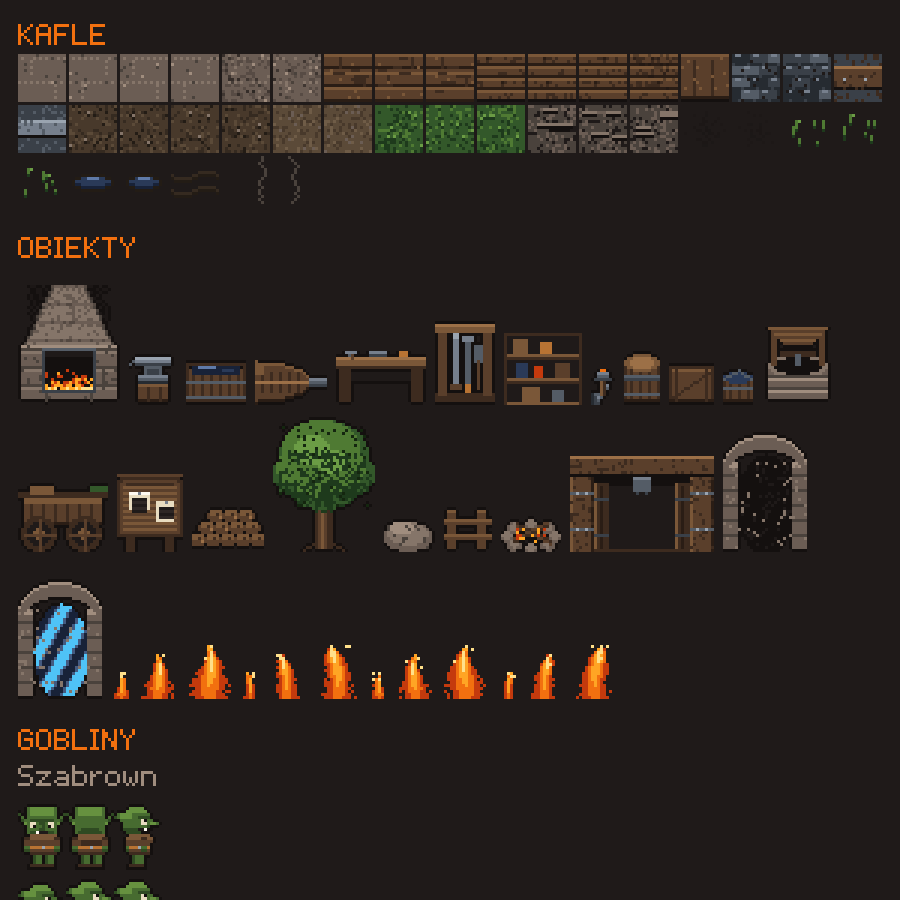
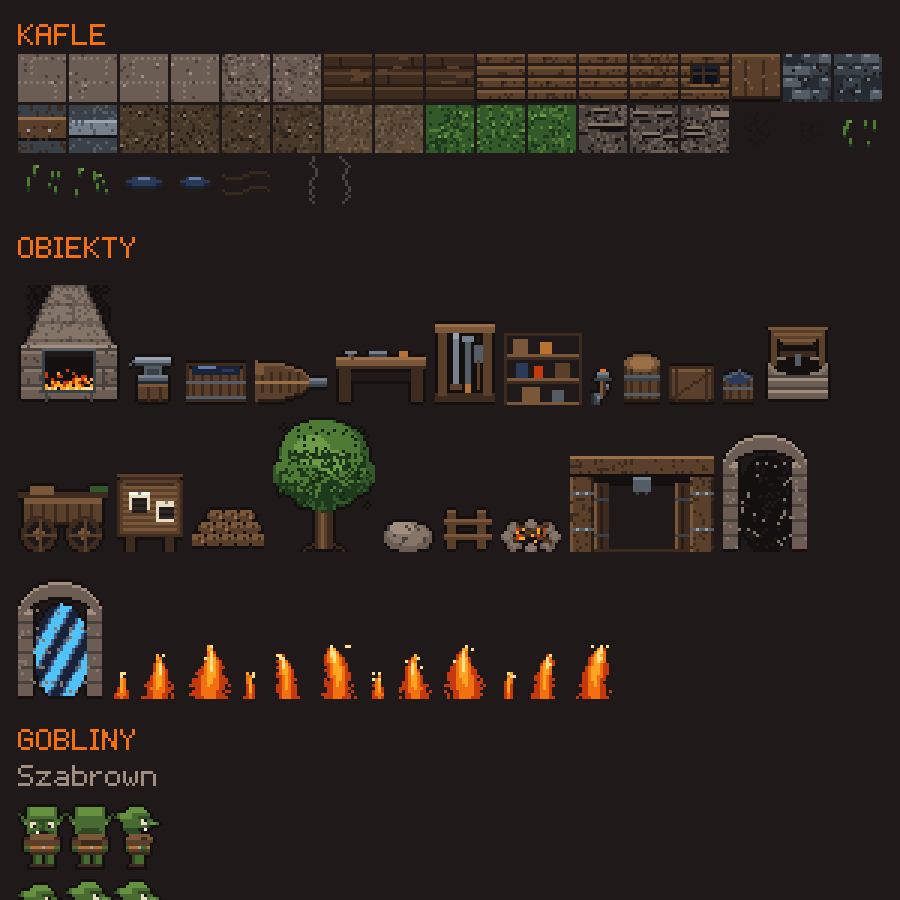
Okna z klinem widocznosci; kontrast podlogi; nieregularny przedpiecek
Trzy rzeczy zgloszone po obejrzeniu w grze:

1. Itemki zlewaly sie z podloga, bo deski mialy baze wood 2 — dokladnie ta,
   z ktorej zrobione sa beczki, skrzynie i stol. Podloga schodzi o dwa stopnie
   rampy w dol, przedmioty zostaja na srodku i kontrast robi sam material.

2. Przedpiecek byl rownym kwadratem i wygladal jak wklejony. Teraz krawedz jest
   nieregularna (czesc kafli brzegowych wypada, czesc wychodzi poza obrys),
   a sadza z paleniska wysypuje sie na deski i rozmywa linie styku.

3. Boki karczmy przeswiecaly — bylo widac trawe za sciana. Powod: pas trawy
   miedzy sciana a skala ma dwa kafle, czyli 32 px, a rozmycie krawedzi
   przygaszania bylo ustawione na 30 px. Caly pas wpadal w gradient i nigdy
   nie gasl. Rozmycie zwezone do 6 px.

Do tego OKNA. Siedem otworow w scianach, a przez kazdy widac klin liczony
od pozycji gracza przez oba konce otworu — dokladnie ta sama geometria co przy
rzucaniu cienia, tylko odwrocona. Ile widac, zalezy od tego, gdzie stoisz.

Przygaszanie liczy sie teraz na osobnym plotnie: zaciemniamy wszystko, potem
wycinamy wnetrze i kliny. Rysujac wprost na maske dawalo sie tylko dokladac
ciemnosc, nie odejmowac jej wybiorczo. Opis okna to czysta geometria (odcinek
otworu), wiec ten sam mechanizm obsluzy okna w domkach graczy.

Changed region(s): [[0.0, 0.0622, 0.9956, 0.2178], [0.1867, 0.1867, 0.2489, 0.2178]]

diff --git a/client/src/world/forge.js b/client/src/world/forge.js
@@ -23,6 +23,40 @@ export const WORLD_H = MAP_H * TILE;
 const BUILDING = { x0: 5, x1: 42, y0: 2, y1: 19 };
 // Prześwit bramy ma dokładnie dwa kafle, bo tyle samo ma otwór w jej rysunku.
 const GATE = { x0: 23, x1: 24 };
+// Kamienny przedpiecek wokół paleniska — jedyne miejsce w hali bez desek.
+const APRON = { x0: 8, x1: 15, y0: 6, y1: 11 };
+
+/**
+ * Okienka w ścianach. Każde opisane jest **odcinkiem otworu** (`a` i `b`)
+ * w pikselach świata — z niego liczy się klin widoczności: co widać przez okno,
+ * zależy od tego, gdzie stoi gracz, dokładnie jak przy rzucaniu cienia.
+ *
+ * Ten sam mechanizm obsłuży potem okna w domkach graczy, więc opis okna jest
+ * czystą geometrią, bez wiedzy o tym, że chodzi o karczmę.
+ */
+const WINDOW_TILES = [
+  { x: BUILDING.x0, y: 7, side: 'left' },
+  { x: BUILDING.x0, y: 13, side: 'left' },
+  { x: BUILDING.x1, y: 7, side: 'right' },
+  { x: BUILDING.x1, y: 13, side: 'right' },
+  { x: 20, y: BUILDING.y0 + 1, side: 'top' },
+  { x: 28, y: BUILDING.y0 + 1, side: 'top' },
+  { x: 36, y: BUILDING.y0 + 1, side: 'top' },
+];
+
+const WINDOW_KEYS = new Set(WINDOW_TILES.map((w) => `${w.x},${w.y}`));
+
+export const WINDOWS = WINDOW_TILES.map((w) => {
+  // Otwór w rysunku kafla zajmuje piksele 4-11 w poziomie i 4-9 w pionie.
+  if (w.side === 'top') {
+    // Ściana biegnie w poziomie, więc otwór jest odcinkiem poziomym na jej licu.
+    const y = w.y * TILE + TILE;
+    return { a: { x: w.x * TILE + 4, y }, b: { x: w.x * TILE + 12, y } };
+  }
+  // Ściany boczne biegną w pionie — otwór jest odcinkiem pionowym.
+  const x = w.side === 'left' ? w.x * TILE : (w.x + 1) * TILE;
+  return { a: { x, y: w.y * TILE + 4 }, b: { x, y: w.y * TILE + 12 } };
+});
 
 export const INTERIOR_PX = {
   x: (BUILDING.x0 + 1) * TILE,
@@ -33,7 +67,7 @@ export const INTERIOR_PX = {
 
 export const SPAWN = { x: 384, y: 352 };
 
-const SOLID_TILES = new Set(['wall_face', 'wall_top', 'rock']);
+const SOLID_TILES = new Set(['wall_face', 'wall_window', 'wall_top', 'rock']);
 
 /** Nazwa kafla bez numeru wariantu — po niej rozpoznajemy kolizję. */
 const baseName = (name) => name.replace(/_\d+$/, '').replace(/_soot\d?$/, '');
@@ -62,6 +96,7 @@ function pickTile(x, y, rng) {
   if (inBuildingSpan) {
     if (y === BUILDING.y0) return 'wall_top';
     if (y === BUILDING.y0 + 1) {
+      if (WINDOW_KEYS.has(`${x},${y}`)) return 'wall_window';
       // Ściana nad paleniskiem jest zakopcona.
       return x >= 8 && x <= 16 ? 'wall_face_soot' : `wall_face_${rng.int(3)}`;
     }
@@ -71,6 +106,7 @@ function pickTile(x, y, rng) {
     }
   }
   if (y > BUILDING.y0 && y < BUILDING.y1 && (x === BUILDING.x0 || x === BUILDING.x1)) {
+    if (WINDOW_KEYS.has(`${x},${y}`)) return 'wall_window';
     return `wall_face_${rng.int(3)}`;
   }
 
@@ -79,14 +115,23 @@ function pickTile(x, y, rng) {
     // Kamień tylko na przedpiecku, gdzie ma sens ogniowy — na desce pod kuźnią
     // nikt by ognia nie rozpalał. Reszta hali to deski.
     //
-    // Przedpiecek jest PROSTOKĄTNY. Wersja liczona po promieniu dawała wielką
-    // szarą plamę na trzeciej części hali, z poszarpaną schodkową krawędzią.
-    const onApron = x >= 8 && x <= 15 && y >= 6 && y <= 11;
-    if (onApron) {
-      const core = x >= 9 && x <= 14 && y >= 7 && y <= 10;
+    // Krawędź przedpiecka jest NIEREGULARNA: część kafli brzegowych wypada,
+    // część wychodzi poza obrys. Równy prostokąt czytał się jak wklejona łata.
+    const inApron = x >= APRON.x0 && x <= APRON.x1 && y >= APRON.y0 && y <= APRON.y1;
+    const onEdge = inApron
+      && (x === APRON.x0 || x === APRON.x1 || y === APRON.y0 || y === APRON.y1);
+
+    if (inApron && !(onEdge && rng.chance(0.4))) {
+      const core = x >= APRON.x0 + 1 && x <= APRON.x1 - 1
+        && y >= APRON.y0 + 1 && y <= APRON.y1 - 1;
       if (core) return rng.chance(0.6) ? 'floor_stone_soot' : 'floor_stone_soot2';
       return `floor_stone_${rng.int(4)}`;
     }
+    // Pojedyncze płyty wysunięte na deski — rozmywają linię styku.
+    const besideApron = x >= APRON.x0 - 1 && x <= APRON.x1 + 1
+      && y >= APRON.y0 - 1 && y <= APRON.y1 + 1;
+    if (besideApron && rng.chance(0.3)) return `floor_stone_${rng.int(4)}`;
+
     return `floor_wood_${(x + y) % 3}`;
   }
 
@@ -124,6 +169,13 @@ function buildDecals(tiles) {
           decals.push({ key: rng.chance(0.5) ? 'decal_soot_0' : 'decal_soot_1', x: px, y: py });
         }
         if (rng.chance(0.05)) decals.push({ key: `decal_crack_${rng.int(2)}`, x: px, y: py });
+      } else if (tile.startsWith('floor_wood')) {
+        // Sadza wysypana z paleniska na deski. To ona rozmywa styk kamiennego
+        // przedpiecka z podłogą — bez niej granica jest linią prostą.
+        const d = Math.hypot(x - 11.5, y - 8.5);
+        if (d < 10 && rng.chance(0.3 - d * 0.026)) {
+          decals.push({ key: rng.chance(0.5) ? 'decal_soot_0' : 'decal_soot_1', x: px, y: py });
+        }
       } else if (tile.startsWith('dirt')) {
         if (rng.chance(0.07)) decals.push({ key: `decal_tuft_${rng.int(3)}`, x: px, y: py });
         if (rng.chance(0.02)) decals.push({ key: `decal_puddle_${rng.int(2)}`, x: px, y: py });
@@ -369,6 +421,7 @@ export function buildWorld() {
     tiles,
     decals: buildDecals(tiles),
     roof: buildRoof(),
+    windows: WINDOWS,
     props,
     lights: buildLights(),
     flames: buildFlames(),

diff --git a/client/src/render/lighting.js b/client/src/render/lighting.js
@@ -37,6 +37,11 @@ export class Lighting {
     if (this.width === w && this.height === h) return;
     if (this.scene.textures.exists(this.key)) this.scene.textures.remove(this.key);
     this.texture = this.scene.textures.createCanvas(this.key, w, h);
+    // Płótno pomocnicze na przygaszanie — nie trafia do gry, służy tylko do
+    // złożenia maski widoczności przed nałożeniem jej na scenę.
+    this.occlusion = document.createElement('canvas');
+    this.occlusion.width = w;
+    this.occlusion.height = h;
     // Wygładzanie jest tu pożądane — chcemy miękką plamę światła, nie kwadraty.
     this.texture.setFilter(Phaser.Textures.FilterMode.LINEAR);
     this.image.setTexture(this.key);
@@ -52,37 +57,74 @@ export class Lighting {
    * Krawędź jest rozmyta pasem gradientu. Ostry prostokąt czytał się jak błąd
    * renderowania — to była znana wada tej warstwy jeszcze przy samym ambiencie.
    */
-  occlude(ctx, w, h, box, strength) {
+  occlude(ctx, w, h, box, strength, player, toMaskX, toMaskY) {
     if (strength <= 0.01) return;
-    const feather = 30 / RESOLUTION;
-    const dark = (a) => `rgba(10,8,16,${(a * strength).toFixed(3)})`;
-    const SOLID = 0.9;
+
+    // Rysujemy na osobnym płótnie: najpierw zaciemniamy wszystko, potem
+    // **wycinamy** to, co widać. Tylko tak da się wyciąć klin przez okno —
+    // przy rysowaniu wprost na maskę można by dokładać ciemność, ale nie
+    // odejmować jej wybiórczo.
+    const o = this.occlusion.getContext('2d');
+    o.setTransform(1, 0, 0, 1, 0, 0);
+    o.clearRect(0, 0, w, h);
+    o.globalCompositeOperation = 'source-over';
+    o.fillStyle = `rgba(10,8,16,${(0.92 * strength).toFixed(3)})`;
+    o.fillRect(0, 0, w, h);
+
+    o.globalCompositeOperation = 'destination-out';
+
+    // 1. Wnętrze budynku — widać całe. Krawędź zmiękczona kilkoma coraz
+    // mniejszymi prostokątami; rozmycie jest wąskie (6 px świata), bo pas trawy
+    // między ścianą a skałą ma tylko dwa kafle i przy szerokim rozmyciu w ogóle
+    // nie gasł — było widać trawę po drugiej stronie ściany.
+    const steps = 3;
+    for (let i = steps; i >= 0; i--) {
+      const pad = i * (3 / RESOLUTION);
+      o.fillStyle = `rgba(0,0,0,${(0.45 + 0.55 * (1 - i / (steps + 1))).toFixed(3)})`;
+      o.fillRect(box.x0 - pad, box.y0 - pad, (box.x1 - box.x0) + pad * 2, (box.y1 - box.y0) + pad * 2);
+    }
+
+    // 2. Klin widoczności przez każdy otwór.
+    //
+    // Geometria jest ta sama co przy rzucaniu cienia, tylko odwrócona: promienie
+    // biegną od gracza przez oba końce otworu i dalej. To, co między nimi, widać.
+    if (player) {
+      const px = toMaskX(player.x);
+      const py = toMaskY(player.y);
+      const REACH = 900 / RESOLUTION;
+
+      for (const win of this.world.windows ?? []) {
+        const ax = toMaskX(win.a.x);
+        const ay = toMaskY(win.a.y);
+        const bx = toMaskX(win.b.x);
+        const by = toMaskY(win.b.y);
+
+        // Promień od gracza przez koniec otworu, przedłużony na zewnątrz.
+        const ray = (ex, ey) => {
+          const dx = ex - px;
+          const dy = ey - py;
+          const len = Math.hypot(dx, dy) || 1;
+          return [ex + (dx / len) * REACH, ey + (dy / len) * REACH];
+        };
+        const [fax, fay] = ray(ax, ay);
+        const [fbx, fby] = ray(bx, by);
+
+        o.fillStyle = 'rgba(0,0,0,0.82)';
+        o.beginPath();
+        o.moveTo(ax, ay);
+        o.lineTo(bx, by);
+        o.lineTo(fbx, fby);
+        o.lineTo(fax, fay);
+        o.closePath();
+        o.fill();
+      }
+    }
 
     ctx.globalCompositeOperation = 'multiply';
-
-    // Pełny mrok poza pasem rozmycia, po każdej ze stron.
-    ctx.fillStyle = dark(SOLID);
-    ctx.fillRect(0, 0, w, Math.max(0, box.y0 - feather));
-    ctx.fillRect(0, Math.min(h, box.y1 + feather), w, h);
-    ctx.fillRect(0, 0, Math.max(0, box.x0 - feather), h);
-    ctx.fillRect(Math.min(w, box.x1 + feather), 0, w, h);
-
-    // Pasy przejściowe przy samych ścianach.
-    const strip = (x, y, sw, sh, gx0, gy0, gx1, gy1) => {
-      if (sw <= 0 || sh <= 0) return;
-      const g = ctx.createLinearGradient(gx0, gy0, gx1, gy1);
-      g.addColorStop(0, dark(SOLID));
-      g.addColorStop(1, dark(0));
-      ctx.fillStyle = g;
-      ctx.fillRect(x, y, sw, sh);
-    };
-    strip(0, box.y0 - feather, w, feather, 0, box.y0 - feather, 0, box.y0);
-    strip(0, box.y1, w, feather, 0, box.y1 + feather, 0, box.y1);
-    strip(box.x0 - feather, 0, feather, h, box.x0 - feather, 0, box.x0, 0);
-    strip(box.x1, 0, feather, h, box.x1 + feather, 0, box.x1, 0);
+    ctx.drawImage(this.occlusion, 0, 0);
   }
 
-  update(time, inside = false) {
+  update(time, inside = false, player = null) {
     const view = this.scene.cameras.main.worldView;
     const w = Math.ceil(view.width / RESOLUTION) + 2;
     const h = Math.ceil(view.height / RESOLUTION) + 2;
@@ -131,7 +173,7 @@ export class Lighting {
       y0: toMaskY(this.building.y),
       x1: toMaskX(this.building.x + this.building.w),
       y1: toMaskY(this.building.y + this.building.h),
-    }, this.hidden);
+    }, this.hidden, player, toMaskX, toMaskY);
 
     // 4. Winieta — przygasza rogi kadru i zbiera uwagę na środku.
     ctx.globalCompositeOperation = 'source-over';

diff --git a/tools/art/tiles.js b/tools/art/tiles.js
@@ -57,27 +57,31 @@ function stoneFloor(name, { soot = 0, offset = 0 } = {}) {
 function woodFloor(name, { offset = 0 } = {}) {
   const rng = rngFor(name);
   const t = new Canvas(TILE, TILE);
-  t.fill(c('wood', 2));
+  // Podłoga jest CIEMNIEJSZA od mebli i skrzyń, które na niej stoją.
+  //
+  // Pierwsza wersja miała bazę `wood 2` — dokładnie tę samą, z której zrobione
+  // są beczki, skrzynie i stół. Przedmioty zlewały się z podłożem i cała hala
+  // była jedną brązową plamą. Deski schodzą więc o dwa stopnie rampy w dół,
+  // a przedmioty zostają na środku — kontrast robi sam materiał.
+  t.fill(c('wood', 1));
 
-  // Trzy deski na kafel. Cienka jasna krawędź u góry, ciemna szpara u dołu.
-  const edges = [0, 6, 11];
-  for (const y of edges) {
-    t.hline(0, TILE - 1, y, c('wood', 3));
-    t.hline(0, TILE - 1, y + 4 > TILE - 1 ? TILE - 1 : y + 4, c('wood', 0));
+  // Trzy deski na kafel. Wąska jaśniejsza krawędź u góry, szpara u dołu.
+  for (const y of [0, 6, 11]) {
+    t.hline(0, TILE - 1, y, c('wood', 2));
+    t.hline(0, TILE - 1, Math.min(TILE - 1, y + 4), c('wood', 0));
   }
 
   // Styki desek przesunięte co kafel, żeby podłoga nie ustawiła się w kratę.
   const joint = offset % 2 === 0 ? 5 : 12;
-  t.vline(joint, 1, 4, c('wood', 1));
-  t.vline((joint + 8) % TILE, 7, 10, c('wood', 1));
+  t.vline(joint, 1, 4, c('wood', 0));
+  t.vline((joint + 8) % TILE, 7, 10, c('wood', 0));
 
   // Słoje: krótkie poziome kreski, nie losowe kropki.
-  for (let i = 0; i < 5; i++) {
+  for (let i = 0; i < 4; i++) {
     const y = 1 + rng.int(TILE - 2);
     const x = rng.int(TILE - 5);
-    t.hline(x, x + 2 + rng.int(3), y, c('wood', 1));
+    t.hline(x, x + 2 + rng.int(3), y, c('wood', 2));
   }
-  t.speckle(rng, c('wood', 3), 0.03);
   return t;
 }
 
@@ -122,6 +126,32 @@ function wallFace(name, { soot = 0 } = {}) {
       }
     }
   }
+  return t;
+}
+
+/**
+ * Ściana z okienkiem. Otwór jest mały i wysoko, jak w gospodarczym budynku —
+ * przez taki widać niewiele i o to chodzi: to, ile widać, ma zależeć od tego,
+ * gdzie gracz stoi.
+ */
+function wallWindow(name) {
+  const rng = rngFor(name);
+  const t = wallFace(name);
+
+  // Otwór: 8x6 px pośrodku kafla, z ościeżnicą z belek.
+  const x0 = 4;
+  const y0 = 4;
+  t.rect(x0 - 1, y0 - 1, 10, 8, c('wood', 0));       // rama
+  t.rect(x0, y0, 8, 6, c('night', 0));               // ciemny prześwit
+  // Górna krawędź otworu łapie światło z zewnątrz, dolna jest w cieniu.
+  t.hline(x0, x0 + 7, y0, c('night', 1));
+  t.hline(x0, x0 + 7, y0 + 5, c('soot', 0));
+  // Krzyżak: dwie listwy dzielące otwór.
+  t.vline(x0 + 3, y0, y0 + 5, c('wood', 1));
+  t.hline(x0, x0 + 7, y0 + 2, c('wood', 1));
+  // Parapet.
+  t.hline(x0 - 1, x0 + 8, y0 + 6, c('wood', 3));
+  t.speckle(rng, c('wood', 1), 0.1, { x: x0 - 1, y: y0 + 6, w: 10, h: 1 });
   return t;
 }
 
@@ -361,6 +391,7 @@ export function buildTiles() {
 
   for (let i = 0; i < 3; i++) add(`wall_face_${i}`, wallFace(`wall_face_${i}`));
   add('wall_face_soot', wallFace('wall_face_soot', { soot: 0.5 }));
+  add('wall_window', wallWindow('wall_window'));
   add('wall_top', wallTop('wall_top'));
 
   for (let i = 0; i < 2; i++) add(`roof_${i}`, roofShingles(`roof_${i}`, { offset: i }));

diff --git a/client/src/scenes/Forge.js b/client/src/scenes/Forge.js
@@ -241,7 +241,7 @@ export class ForgeScene extends Phaser.Scene {
     this.animatePlayer(time);
     this.updateOthers();
     this.updateRoof(dt);
-    this.lighting.update(time, this.isInsideBuilding(this.px, this.py));
+    this.lighting.update(time, this.isInsideBuilding(this.px, this.py), { x: this.px, y: this.py });
     this.updateAmbience(dt);
     this.reportZone();
   }
